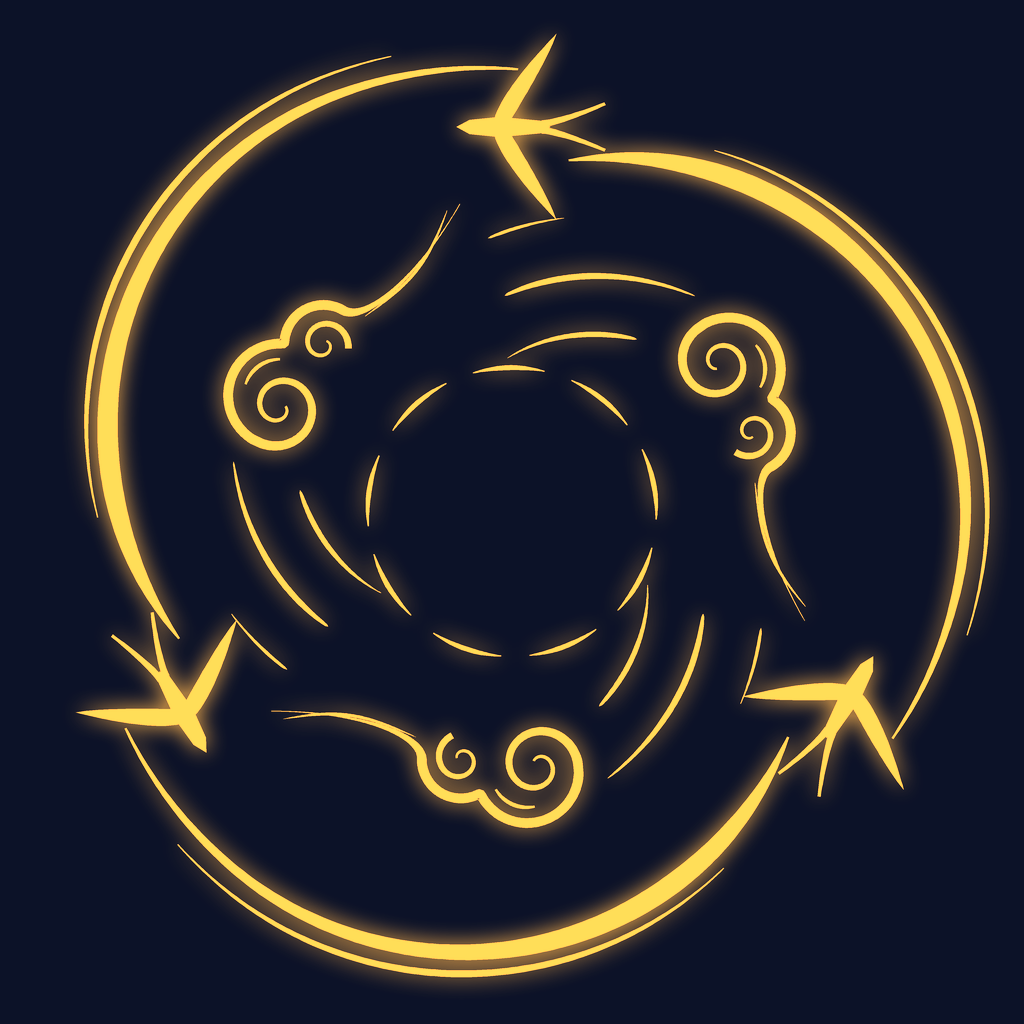
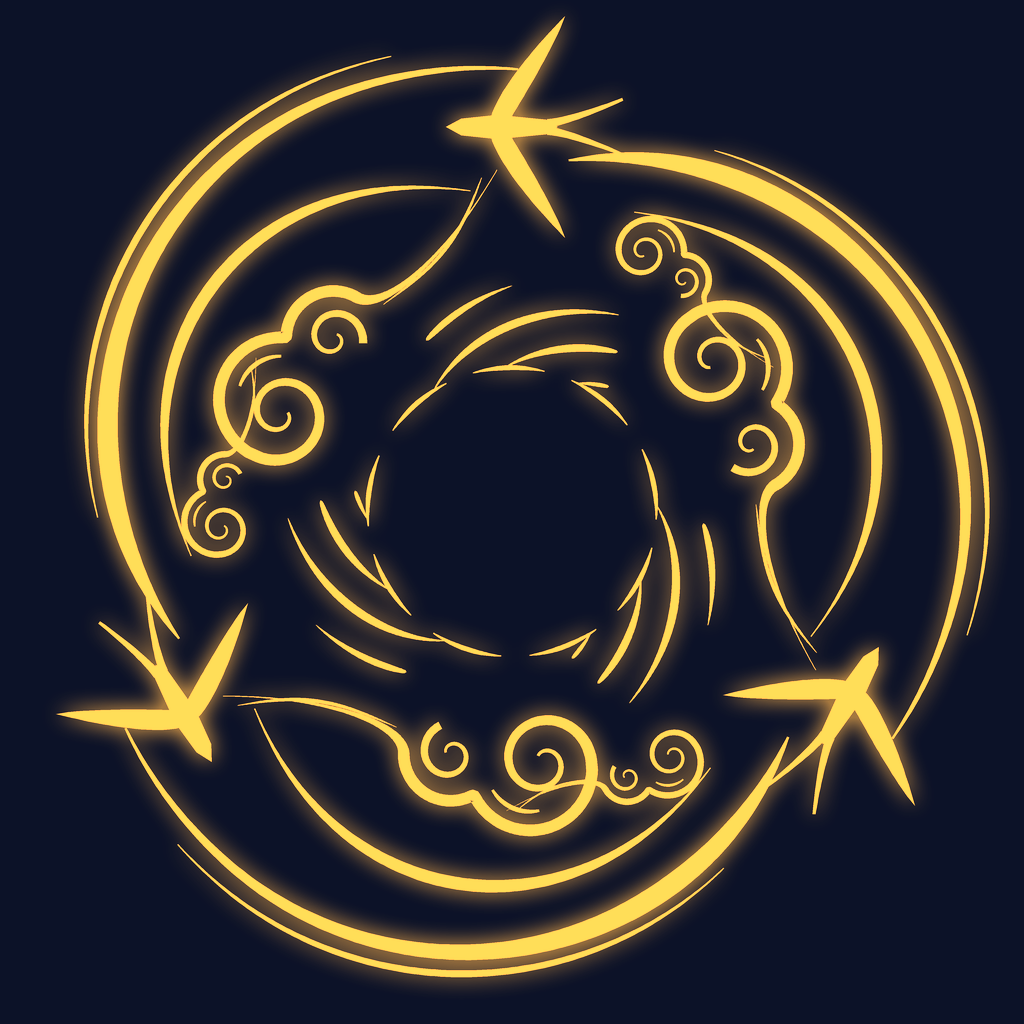
Fill the Ascendant Seal: bigger birds and clouds, layered tails, inner updraft

Changed region(s): [[0.0625, 0.0, 0.9062, 0.9062], [0.75, 0.7188, 0.8125, 0.7812], [0.0938, 0.5938, 0.1562, 0.6562]]

diff --git a/tools/vfx/ascendant_seal.py b/tools/vfx/ascendant_seal.py
@@ -99,6 +99,12 @@ def streamer(a0):
     ang2 = a0 - FLIGHT * (0.16 + span * k2)
     rad2 = 0.74 + 0.22 * np.sin(np.minimum(k2 * 1.25, 1) * math.pi / 2) - 0.04 * k2 ** 3 + 0.045
     ribbon([np.array(polar(r, t)) for r, t in zip(rad2, ang2)], 0.012 * np.sin((k2 - 0.18) / 0.68 * math.pi) + 0.002)
+    # a second, thinner streamer inside it, swelling in the middle of its run (fills the band
+    # between the border and the updraft; the owner: "too many space on the circle")
+    k3 = np.linspace(0.05, 0.95, 150)
+    ang3 = a0 - FLIGHT * (0.3 + span * 0.9 * k3)
+    rad3 = 0.66 + 0.12 * np.sin(k3 * math.pi) ** 1.2
+    ribbon([np.array(polar(r, t)) for r, t in zip(rad3, ang3)], 0.024 * np.sin((k3 - 0.05) / 0.9 * math.pi) ** 1.3 + 0.002)
 
 
 def _arc(c, r, a0, a1, n):
@@ -129,7 +135,7 @@ def cloud(r0, a, s):
     out = np.array([math.cos(a), math.sin(a)])
     base = np.array(polar(r0, a))
     D = math.radians
-    CLEAR.append((base + s * (-1.3 * fwd + 0.05 * out), s * 2.9))
+    CLEAR.append((base + s * (-0.2 * fwd + 0.05 * out), s * 1.75))   # round the lobes; the thin tail may cross wind
 
     def place(pts, widths):
         pts = np.asarray(pts)
@@ -156,14 +162,14 @@ def cloud(r0, a, s):
 def updraft():
     """wind lines spiralling in toward the feet, turning the same way the birds fly; each breaks
     round the clouds, so the clouds sit in clear air with the wind flowing past"""
-    arms = 9
+    arms = 12
     for j in range(arms):
         a0 = j * TAU / arms
         k = np.linspace(0, 1, 160)
-        rad = 0.62 - 0.30 * k
-        ang = a0 + FLIGHT * 1.6 * k
+        rad = 0.47 - 0.17 * k                      # the updraft fills the ring inside the clouds
+        ang = a0 + FLIGHT * 1.1 * k
         pts = np.array([polar(r, q) for r, q in zip(rad, ang)])
-        width = 0.011 * np.sin(k * math.pi) ** 0.8 + 0.0015
+        width = 0.014 * np.sin(k * math.pi) ** 0.8 + 0.002
         free = np.array([all(np.hypot(*(p - c)) > r for c, r in CLEAR) for p in pts])
         i = 0
         while i < len(pts):
@@ -182,9 +188,10 @@ def updraft():
 
 for b in range(BIRDS):
     a = -math.pi / 2 + b * TAU / BIRDS
-    swallow(0.80, a, 0.21)
+    swallow(0.80, a, 0.25)
     streamer(a)
-    cloud(0.52, a - FLIGHT * TAU / BIRDS / 2, 0.125)
+    cloud(0.51, a - FLIGHT * TAU / BIRDS / 2, 0.15)
+    cloud(0.6, a - FLIGHT * TAU / BIRDS * 0.25, 0.08)     # a smaller companion, in the band behind the bird
 updraft()
 # the eye of the updraft: one soft ring round the open centre, broken where the wind enters
 for j in range(9):
